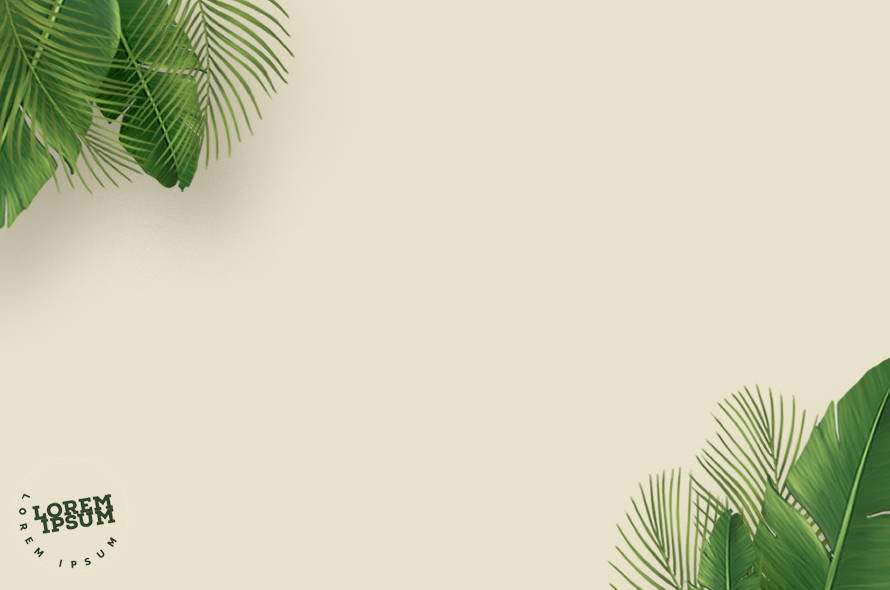
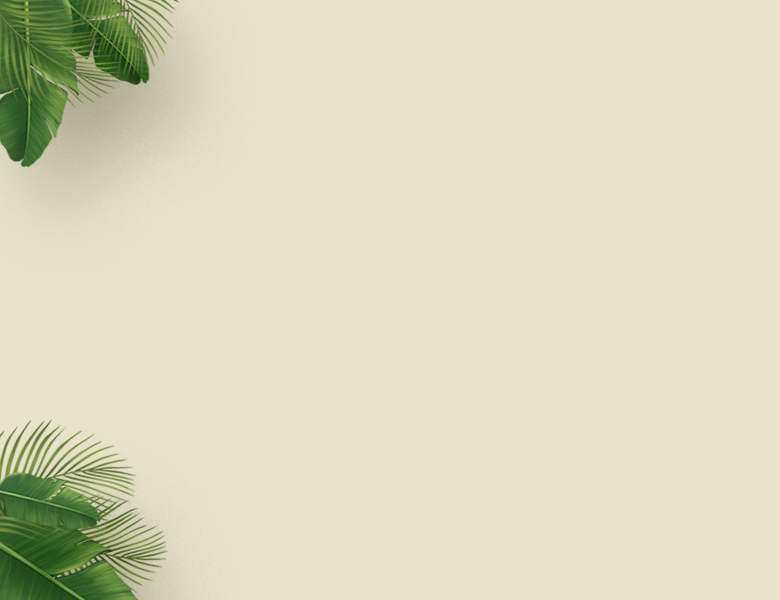
update

Changed region(s): [[0.0, 0.0, 0.3385, 0.4881], [0.6769, 0.6102, 1.0, 1.0], [0.0, 0.7017, 0.2154, 1.0]]

diff --git a/style.css b/style.css
@@ -12,8 +12,8 @@
 :root {
     --font-fut: 'futural';
     --font-nexa: 'nexa';
-    --color1: #243823;      /*#2c462b*/
-    --color2: #eae3cc;
+    --color1: #2c462b;      /*#2c462b*/
+    --color2: #f0e5c1;
 }
 * {
     margin: 0;
@@ -24,20 +24,21 @@ body {
     font-size: 1em;
     font-family: var(--font-fut);
     color: var(--color1);
+    background-color: var(--color2);
     display: grid;
-    grid-template-columns: 2fr 1fr;
+    grid-template-columns: repeat(2, 1fr);
     grid-template-rows: 1fr;
+    background: url('background.png');
+    background-size: contain;
+    background-repeat: no-repeat;
+    background-position: top left;
+    background-color: var(--color2);
 }
 main {
     grid-area: 1 / 1 / 2 / 2;
-    min-height: 100vh;
     display: grid;
-    grid-template-rows: auto 1fr;
+    grid-template-rows: auto 1fr auto;
     grid-template-columns: 1fr;
-    background: url('background.png'), var(--color2);
-    background-size: cover;
-    background-repeat: no-repeat;
-
 }
 fieldset {
     font-size: 1.2em;
@@ -45,7 +46,7 @@ fieldset {
     height: 50px;
     display: flex;
     align-items: center;
-    margin: 20px 0;
+    margin: 10px 0;
     padding: 0 5px;
 }
 
@@ -53,11 +54,9 @@ fieldset {
 /*                 MAIN HEADER*/
 header {
     grid-area: 1 / 1 / 2 / 2;
-    align-self: flex-end;
     display: flex;
     justify-content: end;
     align-items: center;
-    margin-right: 2em;
 }
 .menu li, .menu a{
     color: var(--color1);
@@ -67,13 +66,13 @@ header {
     text-decoration: none;
     display: inline-block;
     margin: 5px;
-    letter-spacing: 1px;
+    letter-spacing: 1.5px;
 }
 
 
 /*                  MAIN USER*/
 .user {
-    grid-area: 1 / 1 / 3 / 2;
+    grid-area: 2 / 1 / 3 / 2;
     width: 100%;
     height: 100%;
     display: flex;
@@ -81,6 +80,7 @@ header {
     justify-content: center;
     align-items: center;
     margin-bottom: 8rem;
+    
 }
 .user h1 {
     align-self: center;
@@ -104,25 +104,35 @@ header {
 /*                  ASIDE REGISTER*/
 .register {
     grid-area: 1 / 2 / 2 / 3;
-    position: relative;
-    background-color: var(--color1);
-    display: flex;
-    flex-direction: column;
-    justify-content: space-evenly;
-}
-.form-register {
-    align-self: center;
-    color: var(--color1);
+    display: grid;
+    grid-template-columns: 1fr;
+    grid-template-rows: repeat(2, auto);
+    justify-items: center;
+    padding-left: 5em;
+    border: 10px solid #2e462e;
+    border-bottom-left-radius: 300px;
+    border-top-left-radius: 300px;
+    box-shadow: 0px 5px 10px #192b19b7;
+    background: url('back-reg.png'),var(--color1);
+    background-size: contain;
+    background-repeat: no-repeat;
+    background-position: center left;
 }
 .register h1 {
-    text-align: center;
-    background-color: var(--color2);
+    grid-area: 1 / 1 / 2 / 2;
+    align-self: end;
     font-family: var(--font-nexa);
     font-size: 3em;
     font-variant: small-caps;
-    text-align: center;
-    color: var(--color1);
+    color: var(--color2);
     text-shadow: 4px 4px 1px rgba(0, 0, 0, 0.3);
+}
+.form-register {
+    grid-area: 2 / 1 / 3 / 2;
+    color: var(--color1);
+    display: flex;
+    flex-direction: column;
+    align-items: center;
 }
 .field-reg {
     border-color: var(--color2);
@@ -165,10 +175,12 @@ header {
     cursor: pointer;
     letter-spacing: 2px;
     font-variant: small-caps;
+    margin: 10px 0;
 }
 .btn-in {
-    border: 2px solid var(--color1);
-    color: var(--color1);
+    background-color: var(--color1);
+    border: 2px solid #2b3a2b;
+    color: var(--color2);
     position: relative;
     overflow: hidden;
     transition: color .8s ease-in-out;
@@ -193,20 +205,20 @@ header {
     transition: .5s ease-in-out;
 }
 .btn-up {
-    border: 2px solid var(--color2);
-    color: var(--color2);
+    background-color: var(--color2);
+    border: 2px solid #f0e5c1;
+    color: var(--color1);
     position: relative;
     z-index: 1;
     overflow: hidden;
     transition: color 1s ease-in-out;
-    align-self: start;
 }
 .btn-up::before{
     content:'';
     position: absolute;
     width: 100%;
     height: 100%;
-    background-color: var(--color2);
+    background-color: var(--color1);
     background-origin: left;
     transform: translateX(-120%) translateY(-26%) skewX(30deg) scaleX(0);
     transition: 1.5s cubic-bezier(0.075, 0.82, 0.2, 1);
@@ -216,13 +228,38 @@ header {
     transform: translateX(-22%) translateY(-26%) skewX(30deg) scaleX(1.3);
 }
 .btn-up:hover {
-    color: var(--color1);
+    color: var(--color2);
     transition: .5s ease-in-out;
 }
 
-
+footer {
+    grid-area: 3 / 1 / 4 / 2;
+    display: flex;
+    justify-content: end;
+}
+picture {
+    margin-right: 3.5em;
+}
+picture img {
+    width: 25px;
+    height: 25px;
+    margin: 0 10px;
+}
 /*                  MEDIA*/
-@media (max-width: 1100px) {
+@media (max-width: 1200px) {
+    main {
+        background: url('background-780.png'), var(--color2);
+        background-size: cover;
+        background-repeat: no-repeat;
+
+    }
+    header {
+        margin-right: 0.6em;
+    }
+    .menu li, .menu a {
+        font-size: 1em;
+        margin: 4px;
+    }
     .user h1 {
         font-size: 2.5em;
     }

diff --git a/index.html b/index.html
@@ -14,15 +14,14 @@
             <nav class="menu">
                 <ul>
                     <li><a href="#">Home</a></li>
-                    <li><a href="#">Products</a></li>
                     <li><a href="#">Shop</a></li>
                     <li><a href="#">About Us</a></li>
-                    <li><a href="#">Contact</a></li>
+                    <li><a href="#">Sign In</a></li>
                 </ul>
             </nav>
         </header>
         <section class="user">
-            <h1>Sign in</h1>
+            <h1>Sign In</h1>
             <p>Lorem ipsum dolor sit amet consectetur adipisicing elit.</p>
             <form class="form-user">
                 <fieldset class="field-user">
@@ -33,31 +32,39 @@
                     <legend>Password</legend>
                     <input type="password" maxlength="10" class="input-control input-user" placeholder="Enter your password" required>
                 </fieldset>
-                <button type="submit" class="btn btn-in">Sign In</button>
             </form>
+            <button type="submit" class="btn btn-in">Sign In</button>
         </section>
+        <footer>
+        <picture>
+            <img src="face.png" alt="">
+            <img src="insta.png" alt="">
+            <img src="whats.png" alt="">
+            <img src="twitter.png" alt="">
+        </picture>
+    </footer>
     </main>
-        <aside class="register">
-            <h1>Sign Up</h1>
-            <form class="form-register">
-                <fieldset class="field-reg">
-                    <legend>Name</legend>
-                    <input type="text" id="name" class="input-control input-reg" placeholder="Enter your name" required>
-                </fieldset>
-                <fieldset class="field-reg">
-                    <legend>User</legend>
-                    <input type="text" id="new-user" class="input-control input-reg" placeholder="Enter your user" required>
-                </fieldset>
-                <fieldset class="field-reg">
-                    <legend>New Password</legend>
-                    <input type="password" maxlength="10" id="passw" class="input-control input-reg" placeholder="Enter your password" required>
-                </fieldset>
-                <fieldset class="field-reg">
-                    <legend>E-mail</legend>
-                    <input type="email" id="email" class="input-control input-reg" placeholder="example@lorimipsum.com" required>
-                </fieldset>
-                <button type="submit" class="btn btn-up">Sign Up</button>
-            </form>
-        </aside>
+    <aside class="register">
+        <h1>Sign Up</h1>
+        <form class="form-register">
+            <fieldset class="field-reg">
+                <legend>Name</legend>
+                <input type="text" id="name" class="input-control input-reg" placeholder="Enter your name" required>
+            </fieldset>
+            <fieldset class="field-reg">
+                <legend>User</legend>
+                <input type="text" id="new-user" class="input-control input-reg" placeholder="Enter your user" required>
+            </fieldset>
+            <fieldset class="field-reg">
+                <legend>New Password</legend>
+                <input type="password" maxlength="10" id="passw" class="input-control input-reg" placeholder="Enter your password" required>
+            </fieldset>
+            <fieldset class="field-reg">
+                <legend>E-mail</legend>
+                <input type="email" id="email" class="input-control input-reg" placeholder="example@lorimipsum.com" required>
+            </fieldset>
+            <button type="submit" class="btn btn-up">Sign Up</button>
+        </form>
+    </aside>
 </body>
 </html>
